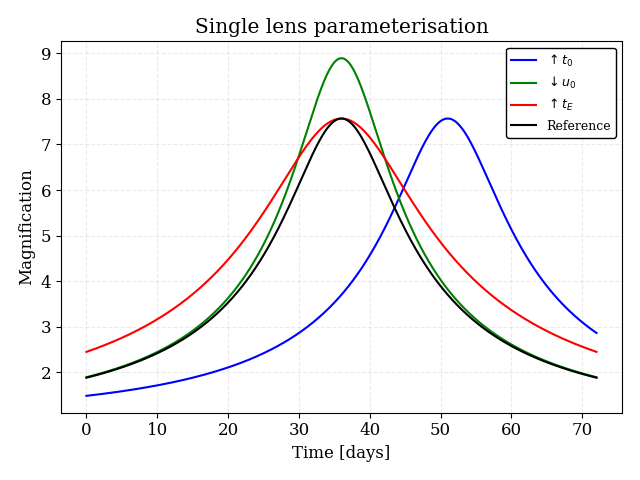
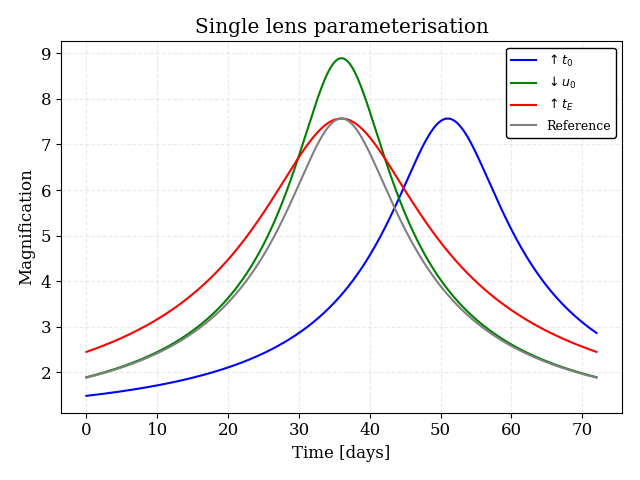
2

diff --git a/light-curve-test.py b/light-curve-test.py
@@ -30,7 +30,7 @@ if True:
     theta_a[6] = theta_a[6] + 120
     pltf.PlotLightcurve(2, theta_a, r"$\updownarrow \alpha^*$", "cyan", 0.25)
 
-    pltf.PlotLightcurve(2, theta_r, "Reference", "black", 1)
+    pltf.PlotLightcurve(2, theta_r, "Reference", "grey", 1)
 
 
     
@@ -62,7 +62,7 @@ if True:
     theta_tE[2] = theta_tE[2] + 25
     pltf.PlotLightcurve(1, theta_tE, r"$\uparrow t_E$", "red", 1)
 
-    pltf.PlotLightcurve(1, theta_r, "Reference", "black", 1)
+    pltf.PlotLightcurve(1, theta_r, "Reference", "grey", 1)
 
     plt.title('Single lens parameterisation')
     plt.xlabel('Time [days]')
